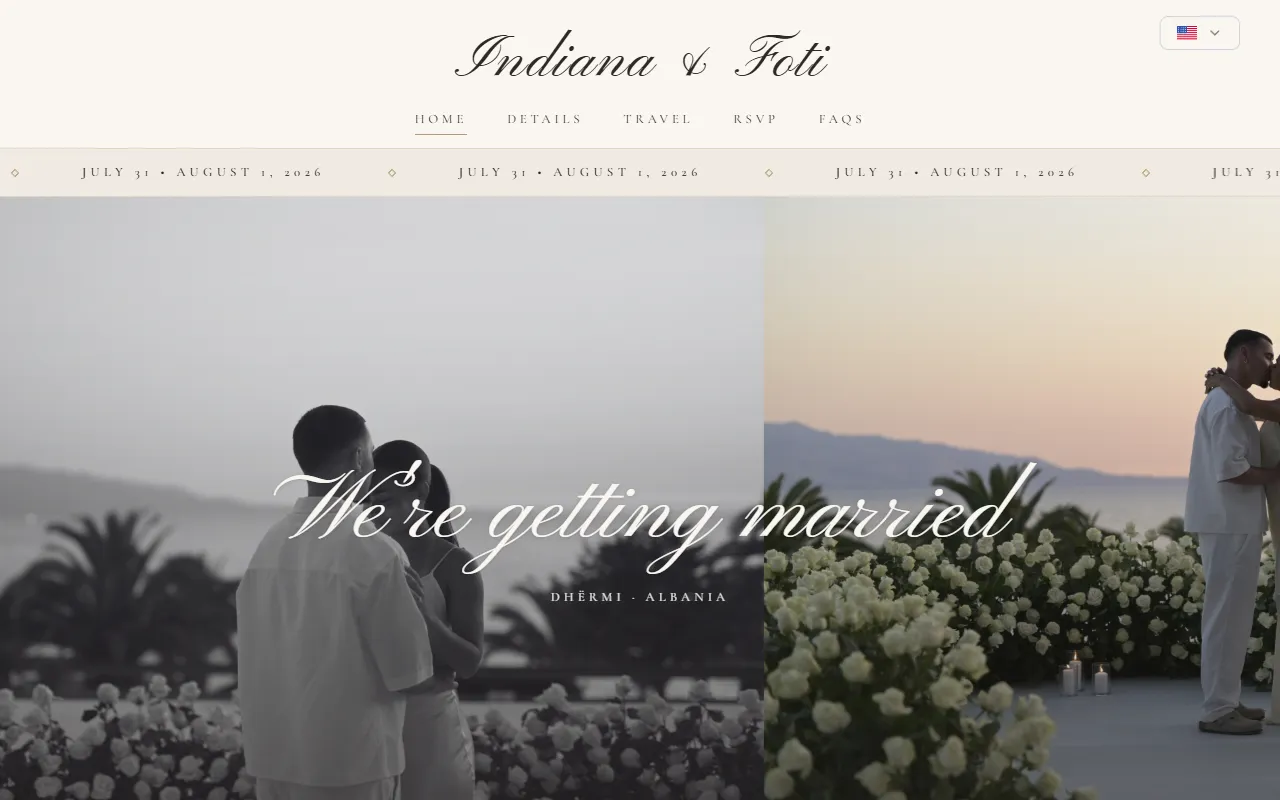
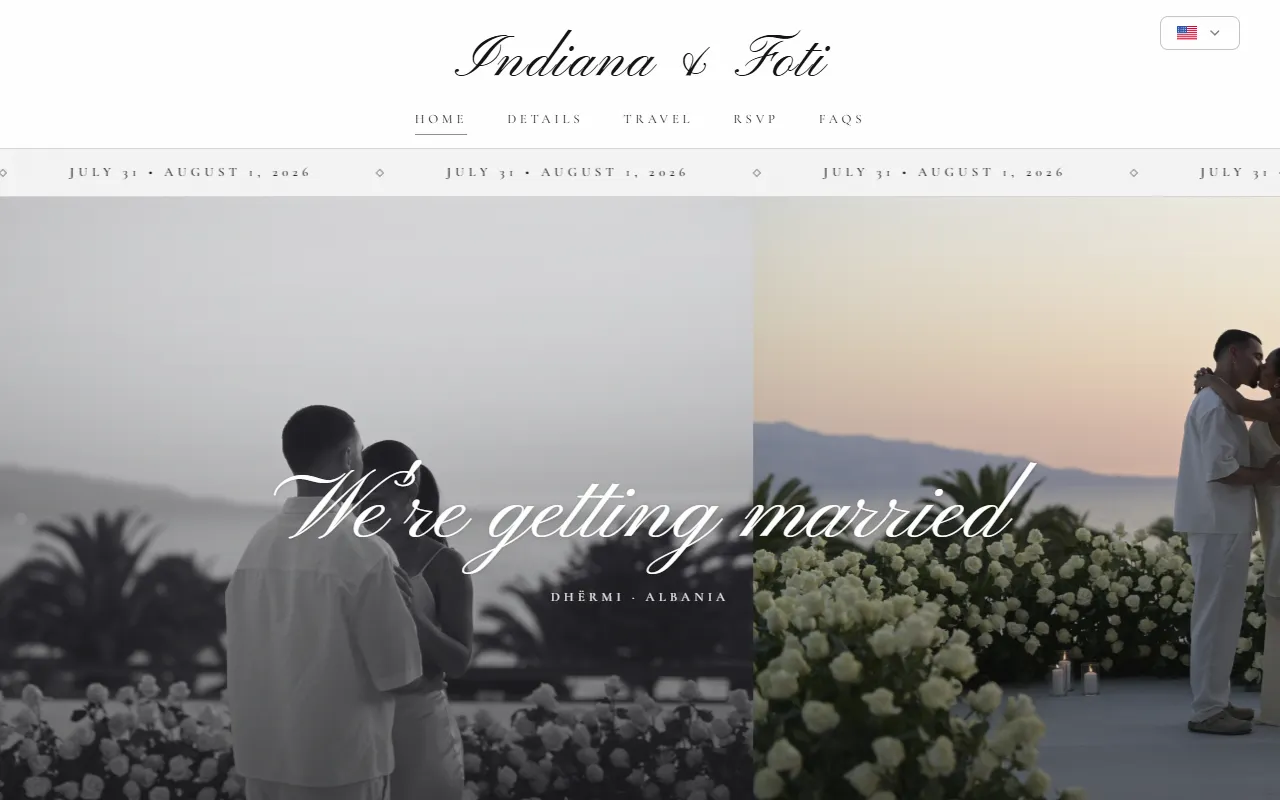
update projects

diff --git a/src/content/site.ts b/src/content/site.ts
@@ -6,6 +6,8 @@ import weddingImg from "../../assets/hero/wedding.webp";
 import portfolioImg from "../../assets/hero/portfolio.webp";
 import weddingMobileImg from "../../assets/hero/wedding-mobile.webp";
 import portfolioMobileImg from "../../assets/hero/portfolio-mobile.webp";
+import ksMediaImg from "../../assets/hero/ks-media.webp";
+import ksMediaMobileImg from "../../assets/hero/ks-media-mobile.webp";
 import type { PackageId } from "../components/hero/heroContent";
 
 export const SITE = {
@@ -57,16 +59,41 @@ export const WORK = {
   lead: "Every project is different. Here's a look at what I build and how I turn ideas into websites that work.",
   items: [
     {
+      // Client work, so it leads the list (and gets the wide featured card).
+      slug: "ks-media-weddings",
+      name: "KS Media Weddings",
+      // CONFIRM: "Custom build" is a guess; change it if the site runs on a platform.
+      tag: "Wedding videographer · Custom build",
+      body: "A website for a Los Angeles wedding videographer. The films lead, the packages and process are clear, and couples can check availability in one short form.",
+      url: "https://ks-media-weddings.com/",
+      host: "ks-media-weddings.com",
+      image: ksMediaImg,
+      alt: "KS Media Weddings homepage: a couple dancing at sunset behind the headline Films that let you feel it all again",
+      mobileImage: ksMediaMobileImg,
+      mobileAlt:
+        "KS Media Weddings on a phone: the sunset dance film with Watch the films and Inquire buttons",
+      platform: "Custom build",
+      features: [
+        "Full-screen film in the hero",
+        "Featured films gallery",
+        "Three packages, compared side by side",
+        "Four-step process",
+        "Kind words from couples",
+        "Inquiry form with date, venue and guest count",
+      ],
+    },
+    {
       slug: "wedding-albania",
       name: "A wedding in Albania",
       tag: "Wedding website · Custom build",
-      body: "I built my own wedding website to help guests travelling from abroad find everything they needed in one place — from the weekend schedule and travel tips to RSVPs.",
+      body: "A wedding website designed to help guests travelling from abroad find everything they needed in one place, from the weekend schedule and travel tips to RSVPs.",
       url: "https://weddingfi.netlify.app/",
       host: "indianafoti.com",
       image: weddingImg,
-      alt: "Wedding website with a couple on a seaside terrace at sunset",
+      alt: "Indiana & Foti wedding website: a black-and-white and a colour photo of the couple by the sea, behind the script headline We're getting married",
       mobileImage: weddingMobileImg,
-      mobileAlt: "The wedding website on a phone: names, dates and the \"We're getting married\" photo",
+      mobileAlt:
+        "The wedding website on a phone: the couple's names, the July 31 – August 1, 2026 date strip and We're getting married over a black-and-white photo",
       platform: "Custom build",
       features: [
         "Weekend itinerary",
@@ -81,13 +108,14 @@ export const WORK = {
       slug: "portfolio",
       name: "foticeci.com",
       tag: "Personal portfolio · Custom build",
-      body: "My personal portfolio, built to showcase my engineering work, projects, and experience working with teams around the world.",
+      body: "A personal portfolio built to showcase engineering work and personal projects.",
       url: "https://foticeci.com",
       host: "foticeci.com",
       image: portfolioImg,
       alt: "Foti Ceci's portfolio: a dark page with his name, the title Frontend Engineer in green, and a See my work button",
       mobileImage: portfolioMobileImg,
-      mobileAlt: "The portfolio on a phone: Foti Ceci's name, the title Frontend Engineer and a green See my work button",
+      mobileAlt:
+        "The portfolio on a phone: Foti Ceci's name, the title Frontend Engineer and a green See my work button",
       platform: "Custom build",
       features: [
         "Project showcase",

diff --git a/src/components/Projects.tsx b/src/components/Projects.tsx
@@ -8,7 +8,11 @@ import { CONTACT_HREF } from "../lib/startProject";
 export default function Projects({ level = 2 }: { level?: 1 | 2 }) {
   const Title = level === 1 ? "h1" : "h2";
   return (
-    <section id="work" className="fc-section fc-section--light fc-section--tint" aria-labelledby="work-title">
+    <section
+      id="work"
+      className="fc-section fc-section--light fc-section--tint"
+      aria-labelledby="work-title"
+    >
       <div className="fc-wrap">
         <header className="fc-head">
           <p className="fc-eyebrow">{WORK.eyebrow}</p>
@@ -18,7 +22,11 @@ export default function Projects({ level = 2 }: { level?: 1 | 2 }) {
 
         <ul className="fc-work" data-reveal>
           {WORK.items.map((item, i) => (
-            <li key={item.url} className="fc-work__card" style={{ "--i": i } as CSSProperties}>
+            <li
+              key={item.url}
+              className="fc-work__card"
+              style={{ "--i": i } as CSSProperties}
+            >
               <Link
                 className="fc-work__frame"
                 to={`/work/${item.slug}`}
@@ -33,19 +41,39 @@ export default function Projects({ level = 2 }: { level?: 1 | 2 }) {
                   <i />
                   <span>{item.host}</span>
                 </span>
-                <img src={item.image} alt="" width={1280} height={800} loading="lazy" decoding="async" />
+                <img
+                  src={item.image}
+                  alt=""
+                  width={1280}
+                  height={800}
+                  loading="lazy"
+                  decoding="async"
+                />
               </Link>
               <div className="fc-work__body">
                 <p className="fc-work__tag">{item.tag}</p>
                 <h3>{item.name}</h3>
                 <p>{item.body}</p>
                 <p className="fc-work__links">
-                  <Link className="fc-link" to={`/work/${item.slug}`} viewTransition>
-                    See the project →<span className="fc-sr">: {item.name}</span>
+                  <Link
+                    className="fc-link"
+                    to={`/work/${item.slug}`}
+                    viewTransition
+                  >
+                    See the project →
+                    <span className="fc-sr">: {item.name}</span>
                   </Link>
-                  <a className="fc-link" href={item.url} target="_blank" rel="noopener noreferrer">
+                  <a
+                    className="fc-link"
+                    href={item.url}
+                    target="_blank"
+                    rel="noopener noreferrer"
+                  >
                     Visit site <span aria-hidden="true">↗</span>
-                    <span className="fc-sr"> {item.host}, opens in a new tab</span>
+                    <span className="fc-sr">
+                      {" "}
+                      {item.host}, opens in a new tab
+                    </span>
                   </a>
                 </p>
               </div>

diff --git a/src/styles/site.css b/src/styles/site.css
@@ -191,7 +191,8 @@ section[id] {
   color: var(--accent);
   font-weight: 600;
   text-decoration: none;
-  background: linear-gradient(currentColor, currentColor) left bottom / 0% 2px no-repeat;
+  background: linear-gradient(currentColor, currentColor) left bottom / 0% 2px
+    no-repeat;
   padding-bottom: 2px;
   transition: background-size var(--dur-ui) var(--ease-out);
 }
@@ -430,7 +431,8 @@ section[id] {
 .fc-nav__mobile {
   display: grid;
   gap: 2px;
-  padding: 8px max(20px, env(safe-area-inset-right, 0px)) 20px max(20px, env(safe-area-inset-left, 0px));
+  padding: 8px max(20px, env(safe-area-inset-right, 0px)) 20px
+    max(20px, env(safe-area-inset-left, 0px));
   border-top: 1px solid var(--dark-rule);
 }
 .fc-nav__mobile[hidden] {
@@ -475,6 +477,24 @@ section[id] {
 @media (max-width: 760px) {
   .fc-work {
     grid-template-columns: minmax(0, 1fr);
+  }
+}
+/* With an odd number of projects, the first one spans the row as a wide
+   featured card (screenshot left, text right), so no card sits alone. */
+@media (min-width: 761px) {
+  .fc-work > .fc-work__card:first-child:nth-last-child(odd) {
+    grid-column: 1 / -1;
+    grid-template-rows: none;
+    grid-template-columns: minmax(0, 1.35fr) minmax(0, 1fr);
+    align-items: center;
+  }
+  .fc-work > .fc-work__card:first-child:nth-last-child(odd) .fc-work__frame {
+    border-bottom: 0;
+    border-right: 1px solid var(--rule);
+    align-self: stretch;
+  }
+  .fc-work > .fc-work__card:first-child:nth-last-child(odd) .fc-work__body {
+    padding: clamp(24px, 3.5vw, 44px);
   }
 }
 .fc-work__card {
@@ -536,9 +556,11 @@ section[id] {
   color: var(--text-2);
 }
 .fc-work__body .fc-work__tag {
-  font-family: var(--f-mono);
+  /* font-family: var(--f-mono); */
   font-size: 12px;
-  letter-spacing: 0.04em;
+  text-transform: uppercase;
+  /* letter-spacing: 0.04em; */
+  letter-spacing: 0.14em;
   color: var(--text-2);
 }
 .fc-work__body .fc-link {
@@ -1812,7 +1834,10 @@ section[id] {
 }
 /* The card keeps a side gutter on small screens (it replaces .fc-wrap's padding). */
 .fc-cta-band__inner {
-  max-width: min(1120px, calc(100% - 2 * max(20px, env(safe-area-inset-left, 0px))));
+  max-width: min(
+    1120px,
+    calc(100% - 2 * max(20px, env(safe-area-inset-left, 0px)))
+  );
 }
 
 /* ---------- section followed by the closing band ---------- */

diff --git a/react-router.config.ts b/react-router.config.ts
@@ -14,6 +14,7 @@ export default {
     "/how-it-works",
     "/faq",
     "/contact",
+    "/work/ks-media-weddings",
     "/work/wedding-albania",
     "/work/portfolio",
   ],
